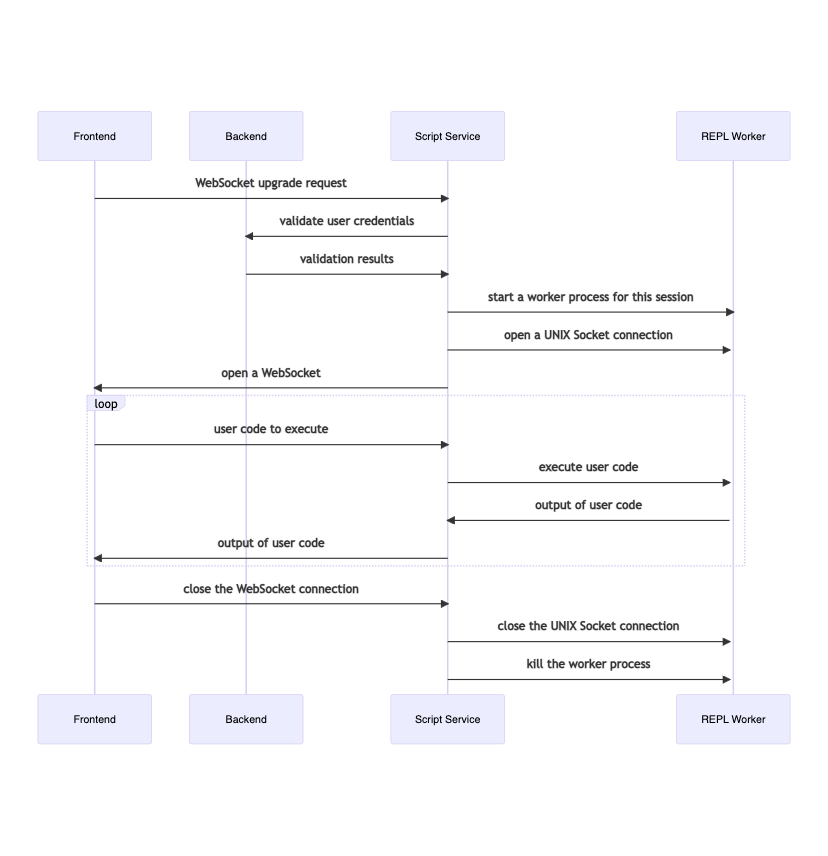
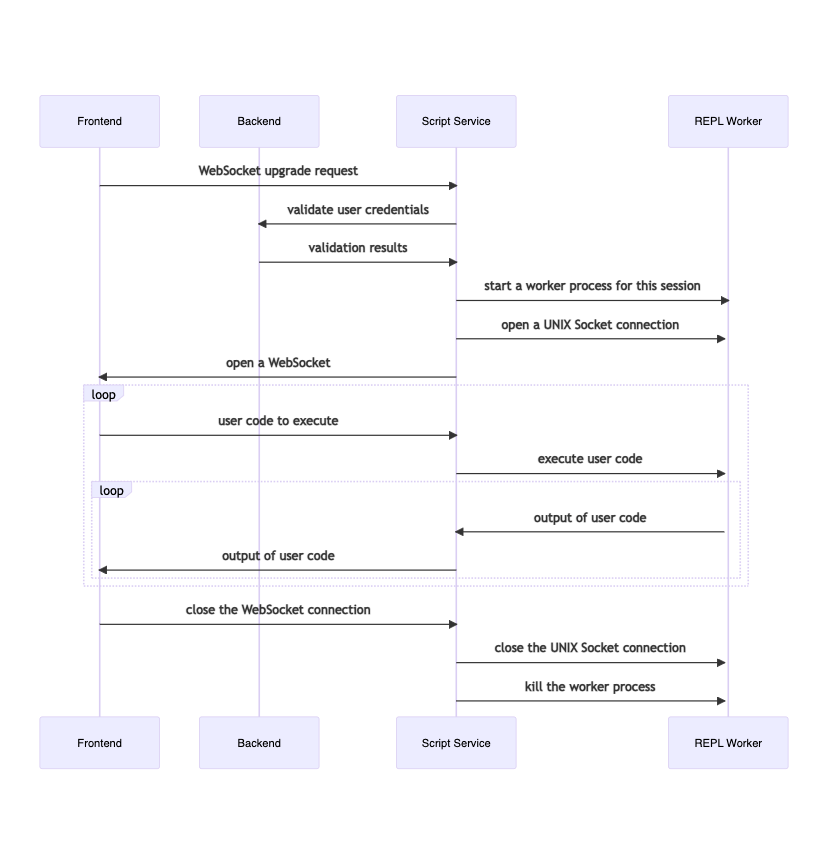
Fixes for the first deployment

diff --git a/app/workers/repl.rb b/app/workers/repl.rb
@@ -28,6 +28,7 @@ class Workers::REPL
     @closed = false
     @pid = spawn(::RbConfig.ruby, START_SCRIPT_PATH)
     ::Process.detach(@pid)
+    ::LOGGER.info "spawned repl-worker #{@pid}"
     socket_path = ::UnixSocket.repl_worker_path(@pid)
 
     ::Timeout.timeout(SOCKET_CONNECTION_TIMEOUT) do
@@ -60,7 +61,7 @@ class Workers::REPL
     rescue ::Errno::ESRCH # No such process
     end
     @connection&.close
-    ::LOGGER.info "killing worker #{@pid}"
+    ::LOGGER.info "killing repl-worker #{@pid}"
     @closed = true
   end
   # rubocop:enable Lint/SuppressedException

diff --git a/README.md b/README.md
@@ -53,12 +53,15 @@ sequenceDiagram
     loop
         Frontend->>Script Service: user code to execute
         Script Service->>REPL Worker: execute user code
-        REPL Worker->>Script Service: output of user code
-        Script Service->>Frontend: output of user code
+        loop
+            REPL Worker->>Script Service: output of user code
+            Script Service->>Frontend: output of user code
+        end
     end
     Frontend->>Script Service: close the WebSocket connection
     Script Service->>REPL Worker: close the UNIX Socket connection
     Script Service->>REPL Worker: kill the worker process
+
 </div> -->
 
 ![Web Console Sequence Diagram](./assets/readme/web_console_sequence_diagram.png)
